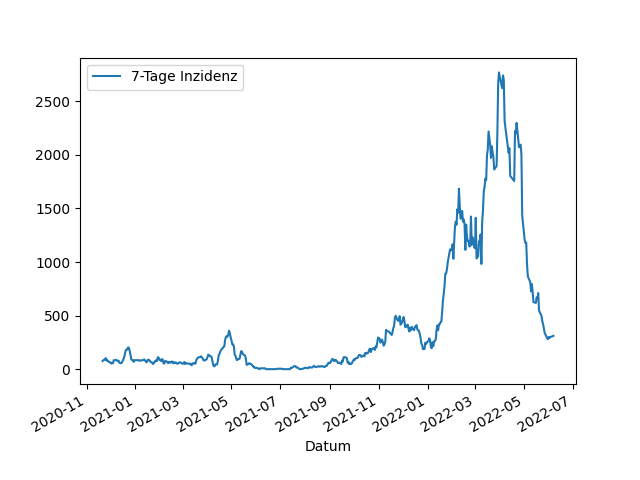
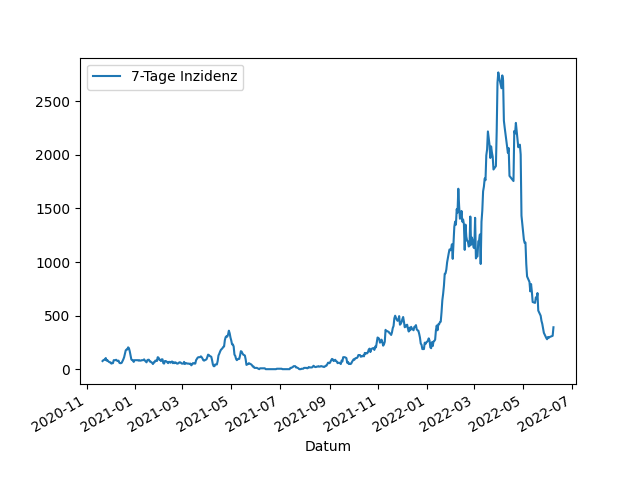
Update images

diff --git a/_includes/aktuelle_inzidenz.md b/_includes/aktuelle_inzidenz.md
@@ -1,1 +1,1 @@
-311,4
+391,2
